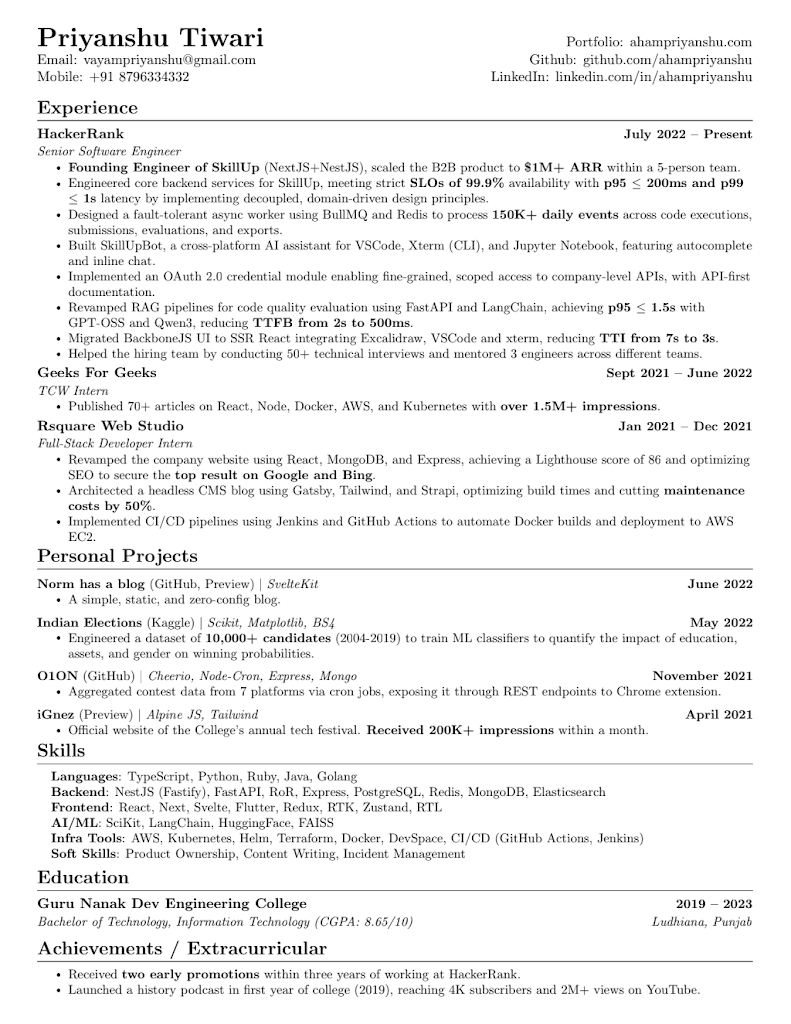
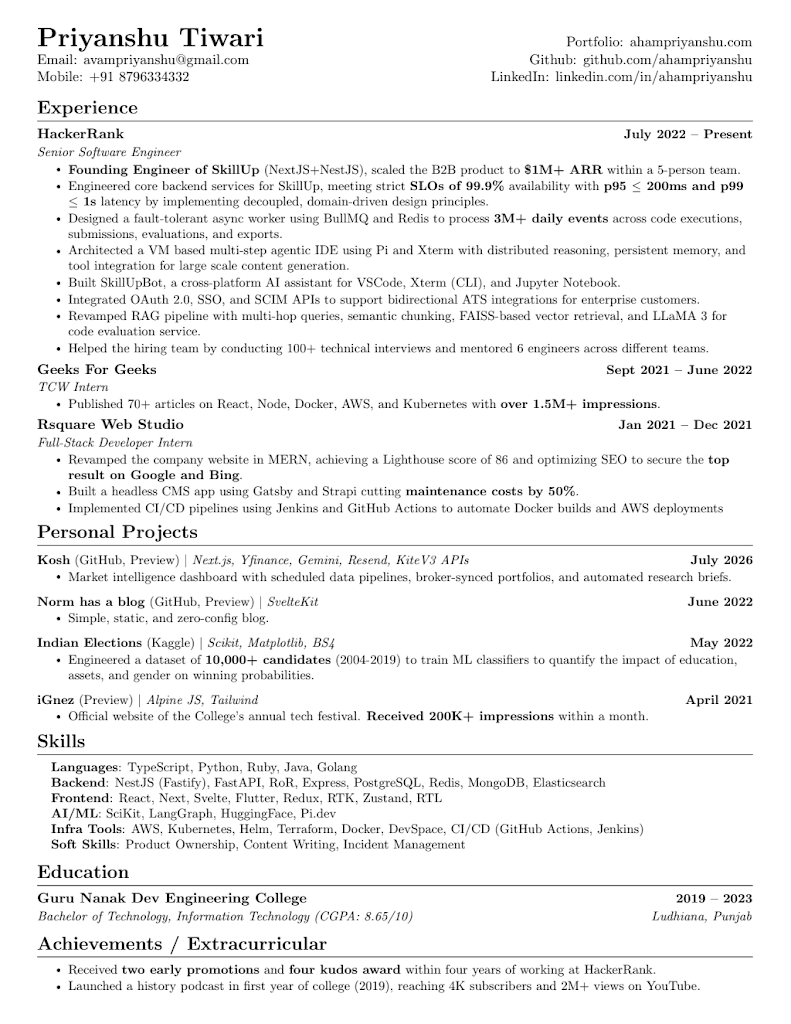
feat: kosh and supertrips mail

Changed region(s): [[0.0303, 0.125, 0.9709, 0.9688], [0.8192, 0.8438, 0.9709, 0.9062], [0.1214, 0.0312, 0.3034, 0.0625]]

diff --git a/app/content/ProductWelcome/product-welcome.module.scss b/app/content/ProductWelcome/product-welcome.module.scss
@@ -1,6 +1,7 @@
 .container {
   display: flex;
   justify-content: center;
+  margin-top: 12px;
   margin-left: 72px;
   margin-right: 24px;
   margin-bottom: 72px;
@@ -129,11 +130,15 @@
 .sections {
   display: grid;
   grid-template-columns: repeat(3, minmax(0, 1fr));
-  gap: 16px;
-  padding: 24px;
+  padding: 0;
 
   div {
     min-width: 0;
+    padding: 24px;
+  }
+
+  div + div {
+    border-left: 1px solid rgba(60, 64, 67, 0.1);
   }
 
   h3 {
@@ -153,14 +158,21 @@
     grid-template-columns: 1fr;
     gap: 18px;
     padding: 22px 20px 26px;
+
+    div {
+      padding: 0;
+    }
+
+    div + div {
+      border-left: 0;
+    }
   }
 }
 
 .kosh {
   .hero {
     background:
-      linear-gradient(90deg, rgba(28, 86, 69, 0.14), transparent 46%),
-      #f5f8f4;
+      linear-gradient(90deg, rgba(28, 86, 69, 0.14), transparent 46%), #f5f8f4;
   }
 
   .hero button {
@@ -180,7 +192,11 @@
 .supertrips {
   .hero {
     background:
-      radial-gradient(circle at 84% 18%, rgba(201, 150, 42, 0.28), transparent 30%),
+      radial-gradient(
+        circle at 84% 18%,
+        rgba(201, 150, 42, 0.28),
+        transparent 30%
+      ),
       #f5f0e8;
   }
 

diff --git a/app/components/Footer/Footer.tsx b/app/components/Footer/Footer.tsx
@@ -9,7 +9,7 @@ import { getMeetScheduleUrl } from '@/app/utils/calendar';
 import { AppContext } from '@/app/AppContext';
 import { getUnopenedMailLabel } from '@/app/utils/mailCounts';
 
-function Footer() {
+function Footer({ showDesktop = true }: { showDesktop?: boolean }) {
   const { state } = useContext(AppContext);
   const maxValue = 15;
   const currentValue = 3.7;
@@ -27,7 +27,11 @@ function Footer() {
 
   return (
     <>
-      <div className={styles.container}>
+      <div
+        className={`${styles.container} ${
+          showDesktop ? '' : styles.hide_desktop
+        }`}
+      >
         <div className={styles.content}>
           <div className={styles.derive}>
             <div className={styles.progressBar}>

diff --git a/app/components/EmailContent/navigation-container.module.scss b/app/components/EmailContent/navigation-container.module.scss
@@ -34,27 +34,6 @@
   }
 
   @media only screen and (max-width: 767px) {
-    position: sticky;
-    bottom: 0;
-    z-index: 4;
-    margin-left: 0;
-    padding: 12px 16px calc(12px + env(safe-area-inset-bottom));
-    justify-content: stretch;
-    gap: 12px;
-    background-color: rgba(255, 255, 255, 0.96);
-    backdrop-filter: blur(8px);
-    box-shadow: 0 -1px 0 rgba(60, 64, 67, 0.12);
-
-    button {
-      flex: 1;
-      min-width: 0;
-      height: 48px;
-      border-radius: 24px;
-      background-color: #e8e7ff;
-      border-color: transparent;
-      box-shadow: none;
-      color: #1f1f1f;
-      font-size: 1rem;
-    }
+    display: none;
   }
 }

diff --git a/app/components/Header/Header.tsx b/app/components/Header/Header.tsx
@@ -370,6 +370,24 @@ function Header() {
               </div>
             }
           />
+
+          <button
+            type='button'
+            aria-label='Open account'
+            className={styles.mobile_account_button}
+            onClick={() => openInNewTab(HEADER.ACCOUNT)}
+          >
+            <Image
+              style={{
+                borderRadius: '50%',
+              }}
+              src='/avatar.png'
+              alt='logo'
+              width={40}
+              height={40}
+              className={styles.account_trigger_avatar}
+            />
+          </button>
         </div>
       </div>
     </div>

diff --git a/app/components/EmailPage/EmailPage.tsx b/app/components/EmailPage/EmailPage.tsx
@@ -5,6 +5,7 @@ import { EmailViewHeader } from '../EmailHeader/EmailViewHeader';
 import { useEmailActions } from '@/app/hooks/useEmailActions';
 import { AppContext } from '@/app/AppContext';
 import { emailList } from '@/app/data';
+import Footer from '../Footer/Footer';
 
 export const EmailPage = ({ id }: { id: string }) => {
   const { updateEmailArgs } = useEmailActions();
@@ -27,6 +28,7 @@ export const EmailPage = ({ id }: { id: string }) => {
     <div className='h-100 w-100'>
       <EmailViewHeader />
       <MailContainer id={id} />
+      <Footer showDesktop={false} />
     </div>
   );
 };

diff --git a/app/components/Footer/footer.module.scss b/app/components/Footer/footer.module.scss
@@ -31,6 +31,10 @@
   }
 }
 
+.hide_desktop {
+  display: none;
+}
+
 .progressBar {
   height: 6px;
   width: 220px;
@@ -75,14 +79,14 @@
     position: fixed;
     left: 8px;
     right: 8px;
-    bottom: calc(8px + env(safe-area-inset-bottom));
+    bottom: 0;
     box-sizing: border-box;
     z-index: 3;
     display: flex;
     align-items: center;
     justify-content: space-around;
     min-height: 64px;
-    padding: 8px 44px;
+    padding: 8px 44px calc(8px + env(safe-area-inset-bottom));
     background-color: #e9eefb;
     border-top: 1px solid rgba(100, 121, 143, 0.12);
   }

diff --git a/app/data/inbox.data.ts b/app/data/inbox.data.ts
@@ -18,7 +18,7 @@ export const permanentData: EmailAttributes[] = [
   },
   {
     id: 'supertrips',
-    subject: 'Welcome to SuperTrips: routes across India, city by city',
+    subject: 'SuperTrips: Discover curated routes across India',
     summary:
       'SuperTrips helps you browse curated India journeys, compare route stops, and open trip details like a travel diary built for planning.',
     body: 'SuperTrips is ready with curated route cards, city-by-city trip details, and a map-first way to explore journeys across India.',

diff --git a/app/data/links.data.ts b/app/data/links.data.ts
@@ -22,6 +22,18 @@ export const PROFILE_DATA: ProfileDataType = {
     username: 'ahampriyanshu',
     link: 'https://www.linkedin.com/in/ahampriyanshu',
   },
+  kosh: {
+    img: '/icons/kosh.svg',
+    title: 'Kosh',
+    username: 'market briefs',
+    link: 'https://kosh.ahampriyanshu.com',
+  },
+  supertrips: {
+    img: '/icons/supertrips.svg',
+    title: 'SuperTrips',
+    username: 'curated routes',
+    link: 'https://supertrips.ahampriyanshu.com',
+  },
   kaggle: {
     img: '/icons/kaggle.png',
     title: 'Kaggle',

diff --git a/app/content/SuperTrips/SuperTrips.tsx b/app/content/SuperTrips/SuperTrips.tsx
@@ -6,7 +6,7 @@ export const SuperTrips = () => (
     logo='/icons/supertrips.svg'
     brand='SuperTrips'
     eyebrow='Travel routes'
-    title='A route diary for crossing India one city at a time.'
+    title='SuperTrips: Discover curated routes across India'
     intro='SuperTrips is a curated collection of journeys across India. It turns long route ideas into browsable trip cards, city stops, map context, and practical details for planning or remembering.'
     cta={{
       label: 'Open SuperTrips',

diff --git a/app/components/Header/header.module.scss b/app/components/Header/header.module.scss
@@ -218,6 +218,21 @@ $header-height: var(--header-height);
   }
 }
 
+.mobile_account_button {
+  display: none;
+
+  @media only screen and (max-width: 767px) {
+    display: inline-flex;
+    align-items: center;
+    justify-content: center;
+    width: 48px;
+    height: 48px;
+    border: 0;
+    background: transparent;
+    cursor: pointer;
+  }
+}
+
 .support_container {
   box-shadow:
     0 1px 2px 0 rgba(60, 64, 67, 0.3),

diff --git a/app/components/EmailHeader/email-header.module.scss b/app/components/EmailHeader/email-header.module.scss
@@ -16,7 +16,6 @@
     justify-content: flex-start;
 
     .back_btn {
-      width: 60px;
       margin-left: 6px;
     }
   }
